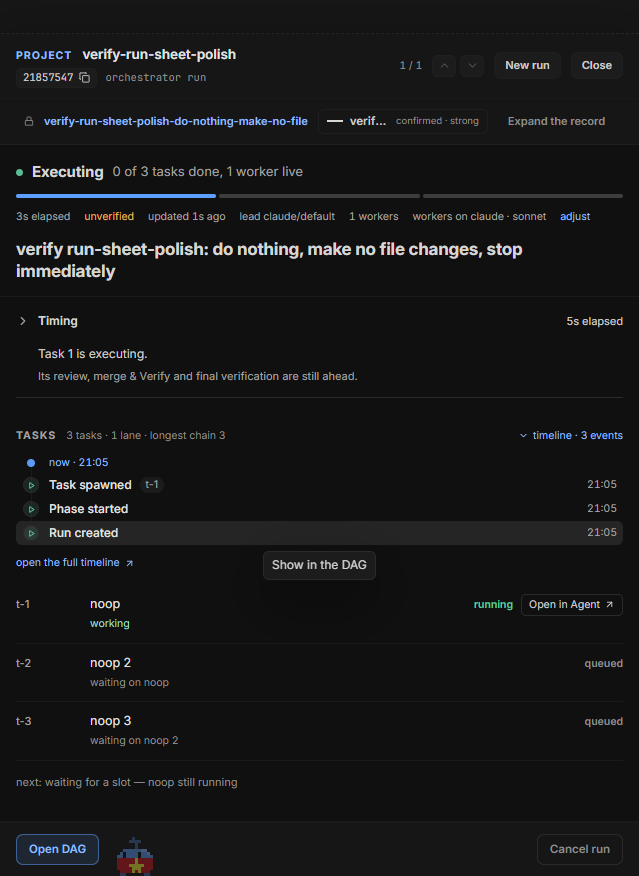
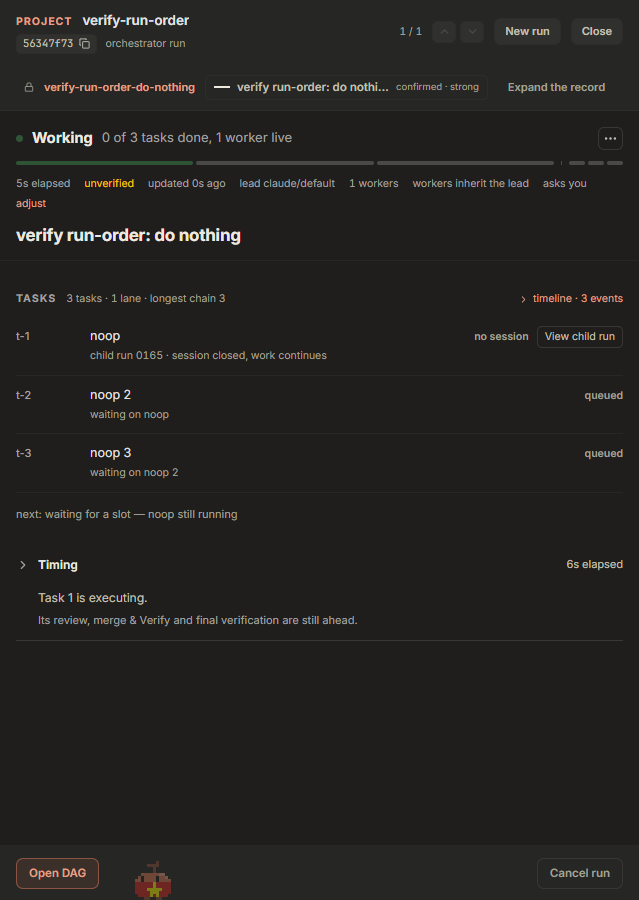
docs(guide): retake the run sheet image for the Brief revamp
The old shot (10-08) showed the old run-sheet verbs; the new one is a Working run from brief-run-sheet-order, and the
alt says Working, the tail pips and Timing.

diff --git a/docs/guide/jarvis.md b/docs/guide/jarvis.md
@@ -111,7 +111,7 @@ Mở một run từ **Waiting on you**, **Runs**, **Shipped**, hoặc Conversati
 
 `j` / `k` chuyển sang run kế / trước trong danh sách mà sheet đang đếm. Khi run xong, sheet thành mặt **Done**: báo cáo của lead hoặc **what landed** cùng bằng chứng đã niêm phong ([Orchestrator → Kết thúc run](orchestrator.md#kết-thúc-run)).
 
-![Run sheet của một run orchestrator đang Executing: thanh tiến độ, danh sách task với lý do chưa chạy, dòng next: và dock](images/jarvis-run-sheet.png)
+![Run sheet của một run orchestrator đang Working: thanh tiến độ với ba chấm cuối, danh sách task với lý do chưa chạy, dòng next:, Timing và dock](images/jarvis-run-sheet.png)
 
 ### Final check
 
